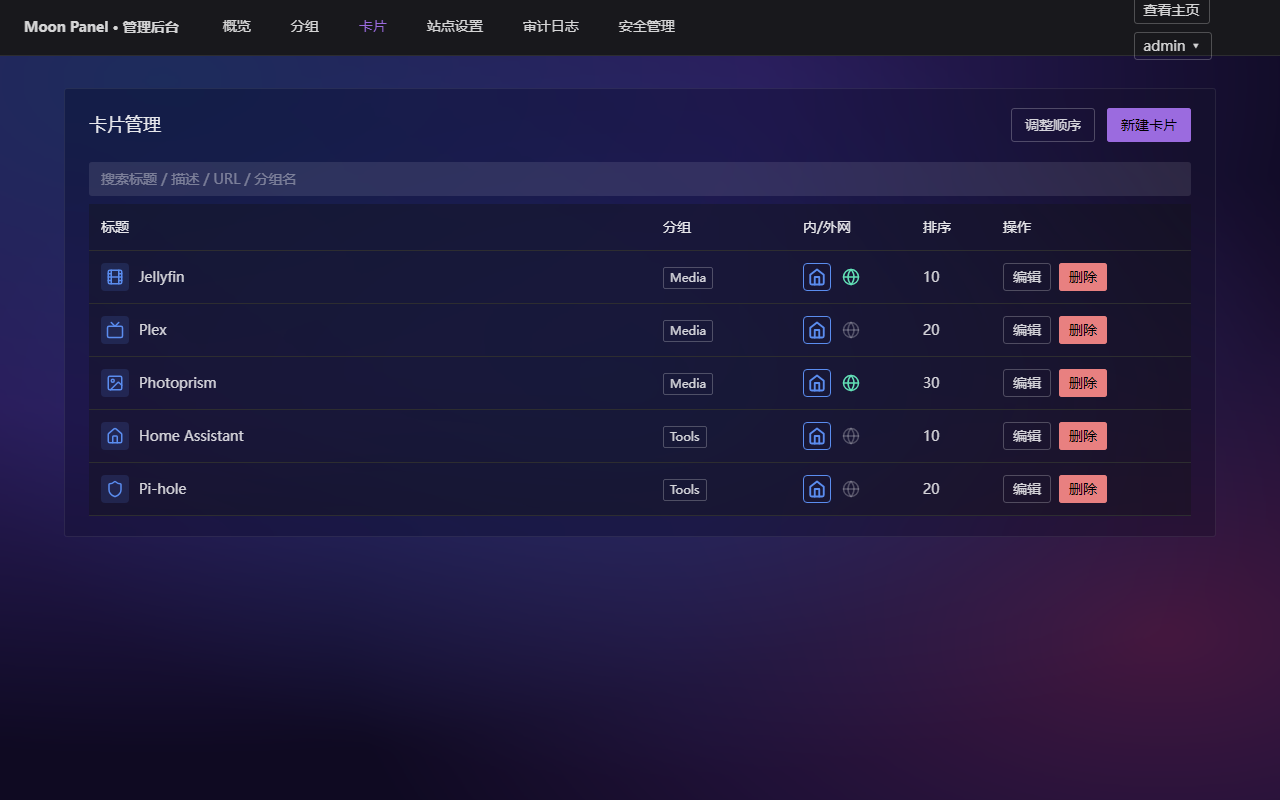
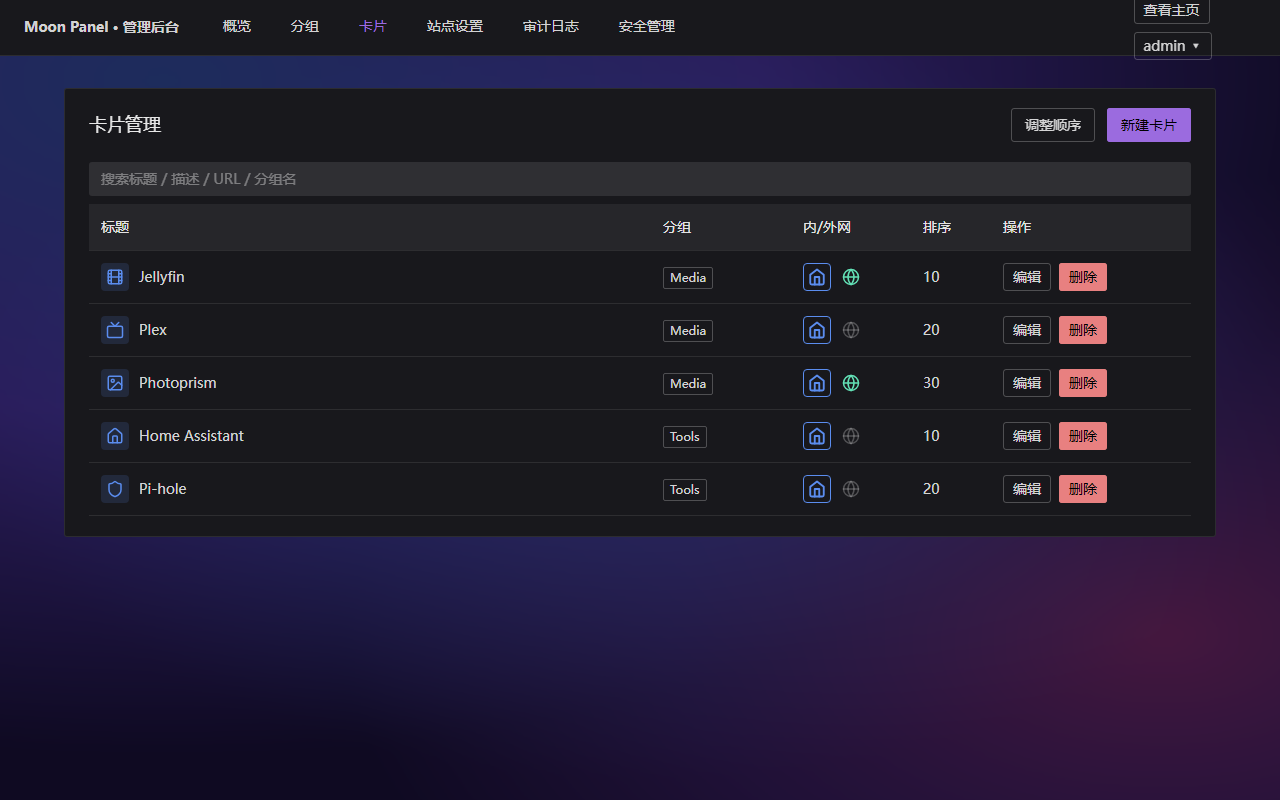
perf(acrylic): selective application (hero/modals only), drop CardItem backdrop-filter; drop console in prod (v0.1.0 release-blocker)

diff --git a/frontend/src/styles/main.css b/frontend/src/styles/main.css
@@ -56,45 +56,25 @@ a {
 }
 
 /* ─────────────────────────────────────────────────────────────────────────
-   Acrylic frosted-glass surfaces (Phase 2.5c-acrylic).
+   Acrylic frosted-glass surfaces (Phase 2.5c, narrowed in 5b-4).
 
    Active only when document.body has class `has-wallpaper` (App.vue toggles
-   this when ui.wallpaper changes). Three tiers reflect content readability
-   needs:
+   this when ui.wallpaper changes). Two utility tiers + modal panels:
 
    - light  — most transparent (rgba 255,255,255,0.04). For HomeHero widgets
-              that are ambient / decorative; user expects to read the
-              wallpaper through the surface.
-   - medium — default (rgba 20,20,24,0.55). For most content surfaces:
-              CardItem, admin NCard sections.
+              that are ambient / decorative.
    - strong — most opaque (rgba 20,20,24,0.65). For focal surfaces where
-              data entry / reading must dominate: login, modal panels.
+              data entry / reading must dominate: login card, modal panels
+              (also targeted automatically via .n-modal .n-card).
 
-   Why class-gated rather than always-on:
-   - When no wallpaper is set, components keep their original opaque dark
-     bg (NaiveUI defaults). Adding acrylic with no wallpaper would just look
-     like extra translucency on solid black — no visual benefit, only paint
-     cost. Toggling via body class avoids that.
-
-   Why both utility classes AND global selectors:
-   - Utility classes (.mp-acrylic-*) for custom divs (CardItem, CityWidget,
-     LoginCard's wrapping NCard etc.) — explicit opt-in.
-   - Global rules on .n-card / .n-modal .n-card — automatic for all NaiveUI
-     cards, including admin sections + 10+ modals. Saves touching each one.
-   - Specificity ordering: .n-modal .n-card (0,3,0) > .mp-acrylic-strong /
-     .n-card / .mp-acrylic-medium (all 0,2,0). For ties, source order in this
-     file wins — keep `.n-card` BEFORE `.mp-acrylic-strong` so login's
-     explicit strong class wins over the medium global default.
-
-   Browser support:
-   - @supports gates real acrylic on backdrop-filter capability. Chrome 76+,
-     Edge 79+, Safari 9+ (with -webkit prefix), Firefox 103+. Mobile coverage
-     near 100% in 2026.
-   - @supports not (...) sets the fallback: a near-opaque flat dark color so
-     the surface is still readable without blur.
-   - prefers-contrast: more — high-contrast users get the same flat fallback.
-     This is the SEMANTICALLY CORRECT trigger; prefers-reduced-motion is for
-     animation/parallax, not static blur (W3C MQ4 spec). */
+   5b-4 narrowing: previously a catch-all on `.n-card` painted acrylic on
+   every admin NCard, and `.mp-acrylic-medium` on CardItem put 5+ acrylic
+   regions on the home page. backdrop-filter is one of the heaviest CSS
+   ops, and rendering 5-10 acrylic regions per page dominated INP — Bevan
+   measured 360ms on Moon Panel vs 40ms on Sun-Panel for the same flow.
+   Acrylic now only fires on low-instance / transient surfaces; everywhere
+   else uses NaiveUI's opaque defaults. The medium tier variable stays
+   defined for forward use, but no selector applies it. */
 
 :root {
   --mp-acrylic-bg-strong: rgba(20, 20, 24, 0.65);
@@ -106,81 +86,31 @@ a {
 }
 
 @supports ((backdrop-filter: blur(1px)) or (-webkit-backdrop-filter: blur(1px))) {
-  /* Order matters: .n-card sets medium first, then .mp-acrylic-strong (same
-     specificity) overrides it for login etc. via source order. */
-  body.has-wallpaper .n-card {
-    background-color: var(--mp-acrylic-bg-medium) !important;
-    -webkit-backdrop-filter: blur(var(--mp-acrylic-blur)) saturate(var(--mp-acrylic-saturate));
-    backdrop-filter: blur(var(--mp-acrylic-blur)) saturate(var(--mp-acrylic-saturate));
-    border: 1px solid var(--mp-acrylic-border);
-  }
-  body.has-wallpaper .n-modal .n-card {
-    background-color: var(--mp-acrylic-bg-strong) !important;
-  }
   body.has-wallpaper .mp-acrylic-light {
     background-color: var(--mp-acrylic-bg-light);
     -webkit-backdrop-filter: blur(var(--mp-acrylic-blur)) saturate(var(--mp-acrylic-saturate));
     backdrop-filter: blur(var(--mp-acrylic-blur)) saturate(var(--mp-acrylic-saturate));
     border: 1px solid var(--mp-acrylic-border);
   }
-  body.has-wallpaper .mp-acrylic-medium {
-    background-color: var(--mp-acrylic-bg-medium);
-    -webkit-backdrop-filter: blur(var(--mp-acrylic-blur)) saturate(var(--mp-acrylic-saturate));
-    backdrop-filter: blur(var(--mp-acrylic-blur)) saturate(var(--mp-acrylic-saturate));
-    border: 1px solid var(--mp-acrylic-border);
-  }
-  body.has-wallpaper .mp-acrylic-strong {
+  /* Login card (.mp-acrylic-strong) and any modal NCard share the strong
+     tier — one rule for the focal-surface look. The .n-modal .n-card
+     selector (0,3,0 specificity) wins over its own utility class so admin
+     popups always get the strong treatment regardless of how they're
+     classed by individual modal components. */
+  body.has-wallpaper .mp-acrylic-strong,
+  body.has-wallpaper .n-modal .n-card {
     background-color: var(--mp-acrylic-bg-strong) !important;
     -webkit-backdrop-filter: blur(var(--mp-acrylic-blur)) saturate(var(--mp-acrylic-saturate));
     backdrop-filter: blur(var(--mp-acrylic-blur)) saturate(var(--mp-acrylic-saturate));
     border: 1px solid var(--mp-acrylic-border);
   }
-
-  /* NDataTable nested-list pattern (macOS Big Sur / Win11 Settings style).
-     Default NaiveUI behavior paints the entire DataTable hierarchy with
-     --n-color (solid dark from darkTheme tokens), which inside an acrylic
-     NCard reads as "frosted box containing a hard solid box" — visually
-     jarring. Fix: outer container layers go transparent so the parent
-     NCard's medium acrylic shows through; cells get a darker translucent
-     fill so rows remain distinguishable. Stacked alpha works out to ~0.73
-     effective opacity at cell positions vs ~0.55 at the surrounding NCard
-     padding — rows feel "deeper" than the card frame, matching the spec
-     ("比 acrylic medium 稍深"). Affects all 5 admin pages with NDataTable
-     (Cards / Groups / AuditLog / Security / SiteSettings search engines). */
-  body.has-wallpaper .n-data-table,
-  body.has-wallpaper .n-data-table-wrapper,
-  body.has-wallpaper .n-data-table-base-table,
-  body.has-wallpaper .n-data-table-table,
-  body.has-wallpaper .n-data-table-thead,
-  body.has-wallpaper .n-data-table-tbody,
-  body.has-wallpaper .n-data-table-empty {
-    /* Note both -base-table AND -table — NaiveUI uses both names in its
-       cssr output (-base-table is the wrapper, -table-table is the inner
-       <table>). Found via F12 forEach across all DataTable descendants;
-       missing -table-table was the actual culprit for the "solid black
-       box inside acrylic NCard" regression. Symmetry maintained in the
-       prefers-contrast block below. */
-    background-color: transparent !important;
-  }
-  body.has-wallpaper .n-data-table-th,
-  body.has-wallpaper .n-data-table-td {
-    background-color: rgba(20, 20, 24, 0.4) !important;
-  }
-  /* Hover row: subtle white tint for feedback. NaiveUI applies hover via TR
-     parent class — both selectors covered to handle older + newer cssr
-     output shapes without depending on internal naming. */
-  body.has-wallpaper .n-data-table-tr:hover .n-data-table-td,
-  body.has-wallpaper .n-data-table-tr--hover .n-data-table-td {
-    background-color: rgba(255, 255, 255, 0.04) !important;
-  }
 }
 
 /* Browser without backdrop-filter (very rare in 2026): flat opaque fallback. */
 @supports not ((backdrop-filter: blur(1px)) or (-webkit-backdrop-filter: blur(1px))) {
-  body.has-wallpaper .n-card,
   body.has-wallpaper .mp-acrylic-light,
-  body.has-wallpaper .mp-acrylic-medium,
-  body.has-wallpaper .mp-acrylic-strong {
+  body.has-wallpaper .mp-acrylic-strong,
+  body.has-wallpaper .n-modal .n-card {
     background-color: rgba(20, 20, 24, 0.95) !important;
     border: 1px solid rgba(255, 255, 255, 0.05);
   }
@@ -189,14 +119,9 @@ a {
 /* High-contrast user preference (Windows high-contrast mode, macOS Increase
    Contrast). Disable acrylic — flat dark surface for max legibility. */
 @media (prefers-contrast: more) {
-  body.has-wallpaper .n-card,
-  body.has-wallpaper .n-modal .n-card,
   body.has-wallpaper .mp-acrylic-light,
-  body.has-wallpaper .mp-acrylic-medium,
   body.has-wallpaper .mp-acrylic-strong,
-  body.has-wallpaper .n-data-table-table,
-  body.has-wallpaper .n-data-table-th,
-  body.has-wallpaper .n-data-table-td {
+  body.has-wallpaper .n-modal .n-card {
     background-color: rgba(20, 20, 24, 0.95) !important;
     -webkit-backdrop-filter: none !important;
     backdrop-filter: none !important;

diff --git a/frontend/src/components/CardItem.vue b/frontend/src/components/CardItem.vue
@@ -1,5 +1,5 @@
 <script setup lang="ts">
-import { computed, h, nextTick, onMounted, ref, type VNode } from 'vue'
+import { computed, h, nextTick, ref, type VNode } from 'vue'
 import { NDropdown, type DropdownOption } from 'naive-ui'
 import type { Card } from '@/api/card'
 import { useNetworkStore } from '@/stores/network'
@@ -9,21 +9,6 @@ import LucideIcon from '@/components/LucideIcon.vue'
 
 const props = defineProps<{ card: Card }>()
 const network = useNetworkStore()
-
-// Plex-badge diagnostic (Phase 2.5a, per user request — F12 console reveals
-// whether url_internal/external is whitespace-only, which would silently
-// bypass the auto-badge logic). Logs once per card mount, only when actually
-// suspicious (non-empty raw value but trim-empty).
-onMounted(() => {
-  for (const field of ['url_internal', 'url_external'] as const) {
-    const v = props.card[field]
-    if (v && v.trim() === '') {
-      console.warn(
-        `[Moon Panel] Card "${props.card.title}" (id=${props.card.id}) ${field} is whitespace-only — auto-badge logic treats this as set, you may want to clear it. Raw: ${JSON.stringify(v)}`,
-      )
-    }
-  }
-})
 
 const url = computed(() =>
   effectiveURL(props.card, {
@@ -92,13 +77,15 @@ function handleMenuSelect(key: string | number) {
   showMenu.value = false
 }
 
-// Computed: which network sides are populated. Drives the auto "仅内网/仅外网"
-// badge — both populated → no badge (default state, switcher chooses).
-const internalSet = computed(() => props.card.url_internal.trim() !== '')
-const externalSet = computed(() => props.card.url_external.trim() !== '')
+// Drives the auto "仅内网/仅外网" badge — both URLs set → no badge (default,
+// switcher chooses), exactly one set → that side's badge. Folded from three
+// computeds (5b-4): the per-side trim()-emptiness checks were only ever
+// consumed here, so inlining cuts two reactive nodes per card.
 const networkBadge = computed<'internal-only' | 'external-only' | null>(() => {
-  if (internalSet.value && !externalSet.value) return 'internal-only'
-  if (externalSet.value && !internalSet.value) return 'external-only'
+  const internal = props.card.url_internal.trim() !== ''
+  const external = props.card.url_external.trim() !== ''
+  if (internal && !external) return 'internal-only'
+  if (external && !internal) return 'external-only'
   return null
 })
 
@@ -144,11 +131,6 @@ const lucideName = computed(() =>
 const cardClasses = computed(() => ({
   'card-item': true,
   'card-item--disabled': !url.value,
-  // Phase 2.5c-acrylic: when body.has-wallpaper, the global rule overrides
-  // .card-item's own bg/backdrop-filter to medium-tier acrylic. When no
-  // wallpaper, the class is a no-op and the existing .card-item style
-  // (rgba(255,255,255,0.06) + 8px blur from Phase 2.5b) keeps showing.
-  'mp-acrylic-medium': true,
 }))
 
 const target = computed(() => (props.card.open_in_new_tab ? '_blank' : '_self'))
@@ -326,16 +308,11 @@ const tooltipText = computed(() => {
   gap: 14px;
   padding: 14px;
   border-radius: 12px;
-  background: rgba(255, 255, 255, 0.06);
-  /* Frosted glass: blur is invisible on pure dark bg but kicks in once a
-     background image is set in Phase 2.5b. Saturate boosts color a bit. */
-  -webkit-backdrop-filter: blur(8px) saturate(120%);
-  backdrop-filter: blur(8px) saturate(120%);
-  border: 1px solid rgba(255, 255, 255, 0.05);
-  /* Hover uses translateY + box-shadow instead of scale, so the
-     backdrop-filter region keeps a fixed size and the browser doesn't
-     re-sample the wallpaper under each card on every frame. The previous
-     scale(1.03) made backdrop blur ~3x more expensive per frame. */
+  /* 5b-4: opaque dark blue-purple instead of acrylic. backdrop-filter is
+     gone — sampling 5+ wallpaper regions per frame dominated INP. The new
+     base reads cleanly over any wallpaper without blur cost. */
+  background: rgba(40, 40, 60, 0.65);
+  border: 1px solid rgba(255, 255, 255, 0.08);
   transition:
     box-shadow 180ms ease,
     transform 180ms ease,
@@ -351,9 +328,10 @@ const tooltipText = computed(() => {
   color: inherit;
 }
 .card-item:hover {
-  /* Subtle white tint over the existing acrylic — half a notch above the
-     idle 0.06 so the change registers without "everything turns white". */
-  background-color: rgba(255, 255, 255, 0.08);
+  /* Slightly lighter shade of the new opaque base — same hue, "wakes up"
+     without changing visual character. The translateY + glow are the
+     primary hover signals; bg shift is a quiet supporting cue. */
+  background-color: rgba(60, 60, 80, 0.78);
   /* Outer 1px ring + soft drop glow replace the old scale-up. Uses the
      existing brand blue (#5b8def family); dynamic theme primary isn't
      exposed as a CSS var today, so plumbing that could be a follow-up. */
@@ -367,7 +345,7 @@ const tooltipText = computed(() => {
   cursor: not-allowed;
 }
 .card-item--disabled:hover {
-  background-color: rgba(255, 255, 255, 0.06);
+  background-color: rgba(40, 40, 60, 0.65);
   transform: none;
   box-shadow: none;
 }

diff --git a/frontend/vite.config.ts b/frontend/vite.config.ts
@@ -5,6 +5,13 @@ import { fileURLToPath, URL } from 'node:url'
 
 export default defineConfig({
   plugins: [vue()],
+  // Strip console.* and `debugger` from the production bundle. Vite's
+  // default esbuild minify keeps console calls; for a public-facing panel
+  // we don't want diagnostic spam in users' browser consoles. Marginal
+  // bundle-size + INP win (~5ms tops); the main motivation is hygiene.
+  esbuild: {
+    drop: ['console', 'debugger'],
+  },
   resolve: {
     alias: {
       '@': fileURLToPath(new URL('./src', import.meta.url)),
